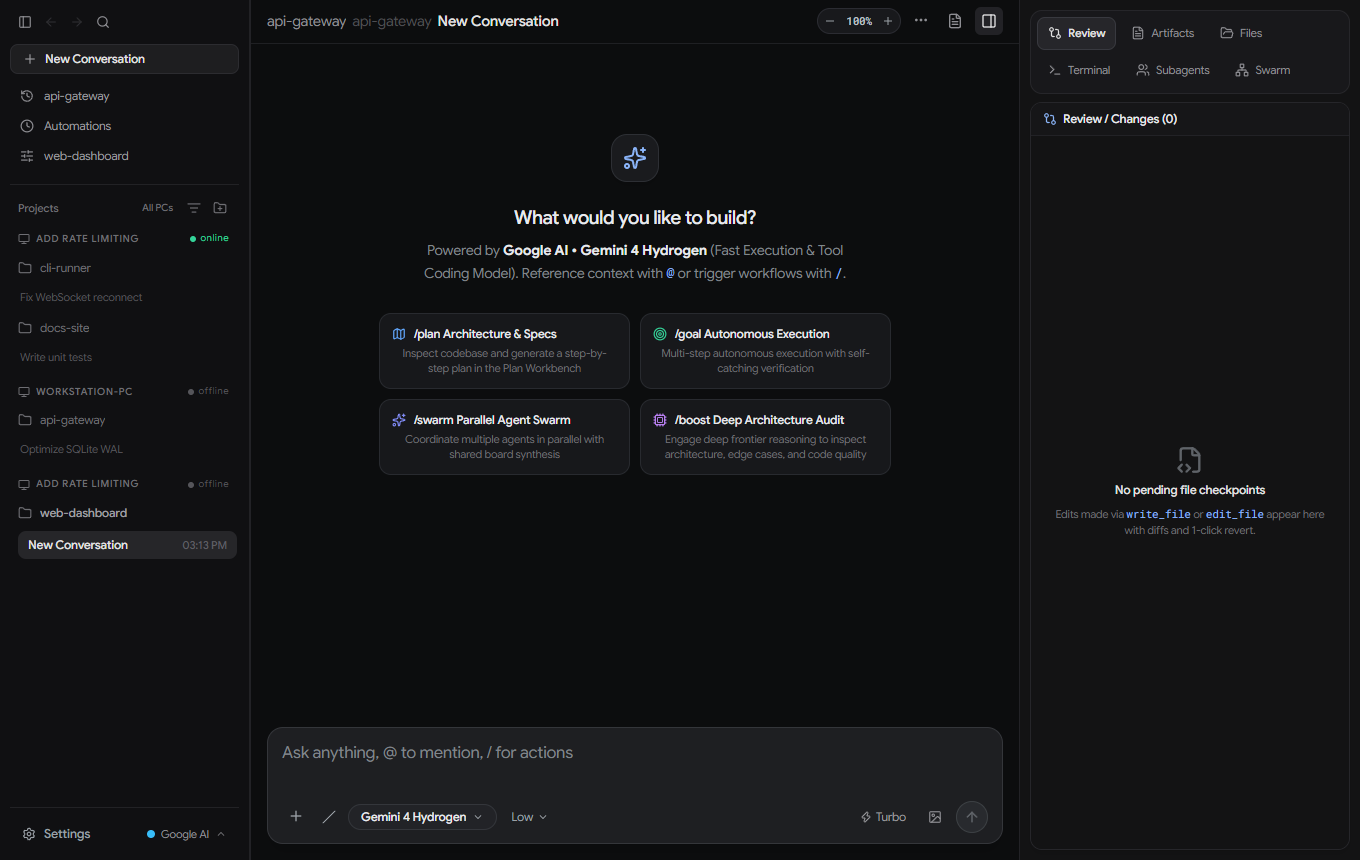
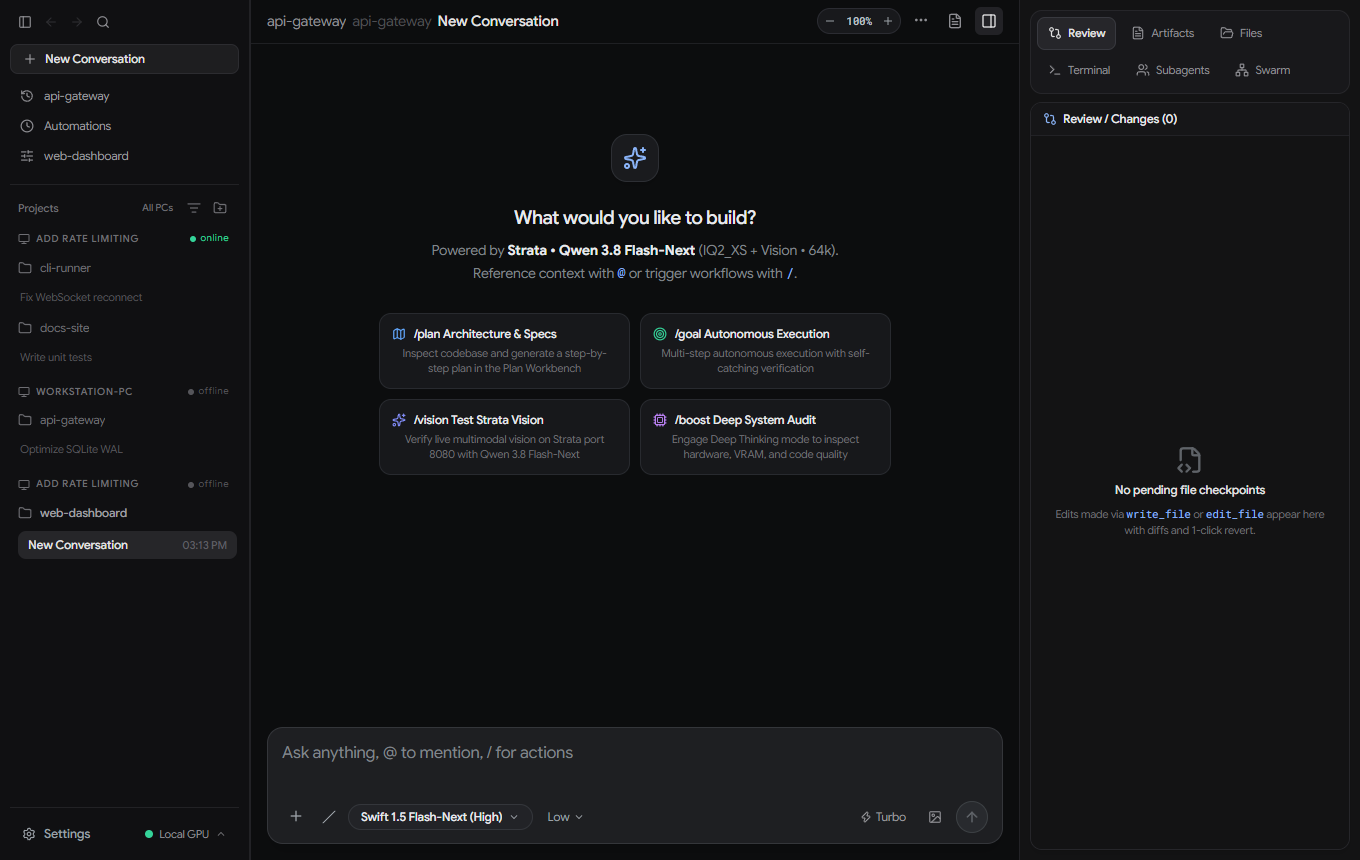
Update README with Strata technical deep-dive, Mermaid architecture, and Strata screenshot

diff --git a/README.md b/README.md
@@ -1,59 +1,119 @@
+<div align="center">
+
 # LocalGravity
 
-An independent, **local-first** agentic coding workspace built to bring an Antigravity-style workflow to your own hardware — with optional cloud APIs when you want them.
+**An independent, local-first agentic coding workspace — built for your own GPU first, with cloud APIs when you want them.**
 
-> **Disclaimer / Trademarks:** LocalGravity is an independent hobby project inspired by modern agentic coding workflows. It is **not** affiliated with, endorsed by, or connected to Google LLC or Google Antigravity. All product names, logos, and trademarks belong to their respective owners.
+[![License: MIT](https://img.shields.io/badge/License-MIT-blue.svg?style=flat-square)](LICENSE)
+[![Latest Release](https://img.shields.io/github/v/release/williamcboehmjr/LocalGravity?style=flat-square&color=brightgreen)](https://github.com/williamcboehmjr/LocalGravity/releases/latest)
+[![Build Status](https://img.shields.io/github/actions/workflow/status/williamcboehmjr/LocalGravity/release.yml?style=flat-square&label=Cross-Platform%20Builds)](https://github.com/williamcboehmjr/LocalGravity/actions)
+[![Platforms](https://img.shields.io/badge/Platforms-Windows%20%7C%20macOS%20%7C%20Linux%20%7C%20Android%20%7C%20ChromeOS-informational?style=flat-square)](#platform-support)
+
+[Why I Built This](#why-i-built-this) · [How It Uses Strata](#how-localgravity-uses-strata-differently) · [Architecture](#architecture) · [Roadmap & `/megaswarm`](#whats-coming-next) · [Quick Start](#quick-start-from-source) · [Contributing](#contributing--feature-requests)
+
+</div>
+
+---
+
+> **Trademark & Non-Affiliation Note:** LocalGravity is an independent hobby project inspired by modern agentic IDE workflows. It is **not** affiliated with, endorsed by, or connected to Google LLC or Google Antigravity. All trademarks belong to their respective owners.
+
+<p align="center">
+  <img src="docs/screenshots/workspace-desktop.png" alt="LocalGravity Workspace running locally on Strata Qwen 3.8 Flash-Next" width="840" />
+</p>
 
 ---
 
 ## Why I Built This
 
-I wanted an Antigravity-style coding experience—clean thinking/working traces, file review diffs, multi-agent swarms, terminal/editor integration, and mobile/desktop companion access—that runs **local-first** on my own workstation GPU, while still letting me flip over to cloud APIs (like Google AI Studio) whenever I want extra speed or reasoning power.
-
-It splits the app into two halves:
-1. **Central Brain (`server/`)** — A TypeScript + Fastify daemon with SQLite persistence that handles model routing, orchestrators, `/swarm` coordination, MCP tools, and session history.
-2. **Edge Client (`client/`)** — A Tauri v2 + React + Monaco + xterm.js app that connects over HTTP/WebSocket and runs file edits and shell commands natively on your machine (Windows, macOS, Linux, Android/ChromeOS, or any browser).
+I wanted an Antigravity-style coding workspace—real-time thinking and working traces, file review checkpoints with inline diffs, multi-agent swarms, an integrated terminal/editor workbench, and mobile/tablet companion access—that runs **local-first on my own workstation GPU**, while still letting me switch over to cloud APIs (like Google AI Studio) whenever I want extra speed or frontier reasoning.
 
 ---
 
-## Screenshots
+## How LocalGravity Uses Strata Differently
 
+Most local LLM clients treat inference like a static chat box where you manually start a backend server and keep weights pinned in VRAM all day. LocalGravity wires **Strata** (`0.1.58`, port `8080`) into an autonomous workstation daemon (`Central Brain`) with a few key differences:
+
+- **Primary Local Model:** `Swift-1.5-Qwen3.8-Flash-Next-GSQ-RCO-IQ2_XS` (Sparse MoE + Vision, 64k context, `DFlash2` speculative decoding config).
+- **Why this model:** It balances fast token generation with native multimodal vision and reliable tool-calling inside consumer VRAM limits, making it practical for multi-step coding loops instead of just single-turn Q&A.
+- **Wake-on-Demand & Guaranteed `0 MB` VRAM Standby:** Instead of hogging VRAM 24/7, `LlamaMoESidecar` spawns Strata only when a prompt arrives, polls `/health` until ready, and automatically tears down the port `8080` process after idle timeout (or when you click **Sleep GPU**) so your GPU drops straight back to **0 MB VRAM**.
+- **Full Agentic Loop Over Strata's Stream:** Rather than plain chat, `Central Brain` wraps Strata's stream in a multi-step tool loop (`run_terminal`, `read_file`, `write_file`, `edit_file`, `apply_diff`, `grep_search`, `find_by_name`, `capture_screen`, MCP tools, `/swarm`, and auto-compaction) with **Reverse-RPC execution** on whatever client device you're working from.
+- **Live Thinking & Interleaved Working Trace:** Reasoning tokens stream into collapsible `Thought for Xs` accordions alongside borderless tool rows, `+X / -Y` diff badges, and interleaved `Working → Prose → Working` updates.
+
+| Capability | Default Strata Client | LocalGravity + Strata |
+| :--- | :--- | :--- |
+| **GPU Lifecycle** | Manual start/stop; stays in VRAM | **Wake-on-Demand** + auto-offload to `0 MB` VRAM |
+| **Execution** | Single-machine chat | **Reverse-RPC** native file edits & terminal across LAN/devices |
+| **Workflow** | Single-turn prompt & reply | Multi-step `/plan`, `/goal`, `/swarm`, `/boost`, `/compact` |
+| **Workbench** | Chat view only | **3-Pane IDE** (Threads, Trace + Chat, Diff Review / Monaco / xterm) |
+| **Cloud Toggle** | Local only | One-click switch to **Google AI Studio** (and more backends coming) |
+
+<details>
+<summary><strong>Screenshot: Redesigned Minimalist Settings Modal</strong></summary>
+<br />
 <p align="center">
-  <img src="docs/screenshots/workspace-desktop.png" alt="LocalGravity Desktop Workspace" width="820" />
+  <img src="docs/screenshots/settings-modal.png" alt="LocalGravity Minimalist Settings" width="760" />
 </p>
-
-<p align="center">
-  <img src="docs/screenshots/settings-modal.png" alt="LocalGravity Minimalist Settings" width="820" />
-</p>
+</details>
 
 ---
 
-## What Works Today
+## Architecture
 
-- **Local GPU & Cloud API Switching**: Run locally with Strata / ExLlamaV3 (with automatic VRAM wake/offload) or switch to Google AI Studio (`Gemini 4 Argon`, `Carbon`, `Hydrogen`, `Flash 3.8`, plus dual orchestrators).
-- **Clean Thinking & Working Trace**: Borderless tool rows with file-type badges, inline `+X / -Y` diff stats, collapsible `Thought for Xs` / `Worked for Xs` summaries, and interleaved `Working → Prose → Working` output.
-- **Slash Commands & Workflows**: `/plan`, `/goal`, `/swarm`, `/boost`, `/compact`, `/vision`, custom skills, and MCP tool integrations.
-- **Cross-Platform Builds**:
-  - **Windows**: `x64` and native `ARM64` `.msi` installers
-  - **macOS**: Universal `.dmg` (Apple Silicon + Intel)
-  - **Linux**: `.AppImage`, `.deb`, and `.rpm`
-  - **Android & ChromeOS**: Signed `.apk` with resizable desktop/Chromebook window support
-  - **Web Companion**: Built-in WebUI served straight from Central Brain (`http://<host>:3390`)
+LocalGravity splits AI orchestration from native machine execution:
+
+```mermaid
+flowchart LR
+    subgraph Edge["Edge Clients (Tauri v2 / WebUI)"]
+        WIN["Windows x64 & ARM64"]
+        MAC["macOS Universal"]
+        LIN["Linux AppImage / DEB / RPM"]
+        MOB["Android & ChromeOS APK"]
+    end
+
+    subgraph Brain["Central Brain (TypeScript + Fastify · :3390)"]
+        ROUTER["Model & Orchestrator Router"]
+        SWARM["/swarm + Subagents + MCP"]
+        DB[("SQLite History & Checkpoints")]
+    end
+
+    subgraph Inference["Inference Engines"]
+        STRATA["Strata Local GPU (:8080)\nSwift-1.5 Qwen 3.8 Flash-Next\nWake-on-Demand / 0 MB Standby"]
+        CLOUD["Google AI Studio API\nArgon / Carbon / Hydrogen"]
+        SOON["Coming Soon:\nOllama · llama.cpp · TabbyAPI · OpenAI"]
+    end
+
+    Edge <-->|"WebSocket Reverse-RPC + REST"| Brain
+    Brain --> STRATA
+    Brain --> CLOUD
+    Brain -.-> SOON
+```
 
 ---
 
-## Coming Soon & Ideas I'm Toying With
+## Platform Support
 
-- **More Local & Custom API Backends**: Adding first-class support for **Ollama**, **llama.cpp** server, **TabbyAPI**, and general **OpenAI-compatible routing** so you can point LocalGravity at whatever local or hosted endpoint you prefer.
-- **`/megaswarm` (Experimental Idea)**: A mode where you can pull in a large swarm of different cloud and local APIs—**Grok, ChatGPT / OpenAI, Google Gemini, Claude**, and others—all working in unison on the same problem. The idea is to throw serious combined brainpower, horsepower, and speed at a hard project right from the start, or when you hit a wall on a nasty bug.
+| Platform | Package Formats | Notes |
+| :--- | :--- | :--- |
+| **Windows (`x64` & native `ARM64`)** | `.msi` + `.sig` | Signed Tauri v2 native installers + in-app auto-update |
+| **macOS (Apple Silicon + Intel)** | Universal `.dmg` + `.app.tar.gz` | Single Universal binary built on `macos-latest` |
+| **Linux (`x64`)** | `.AppImage`, `.deb`, `.rpm` | Covers Ubuntu, Debian, Arch, Fedora, openSUSE, SteamOS |
+| **Android & ChromeOS** | Signed `.apk` | Resizable window + non-touch Chromebook manifest support |
+| **Web Companion** | Built-in WebUI | Served directly from Central Brain (`http://<host>:3390`) |
 
 ---
 
-## Contributing, Feature Requests & PRs
+## What's Coming Next
 
-This is a **side hobby project**, so please keep expectations realistic:
-- **Feature Requests**: Feel free to open an issue with ideas! I'm happy to read them, though I can't promise timelines or that everything will get built.
-- **Forks & Pull Requests**: You're very welcome to fork the repo and open a PR. Before anything gets merged into `main`, PRs go through AI-assisted review and safety checks (along with human review) to make sure changes make sense, stay safe, and don't break existing workflows.
+- **More Local & OpenAI-Compatible Endpoints:** First-class support for **Ollama**, **llama.cpp** server, **TabbyAPI**, and general **OpenAI-compatible API routing** so you can plug in any local or self-hosted model stack.
+- **`/megaswarm` (Experimental Idea):** Something I'm toying with—being able to pull together a big swarm of different cloud and local APIs (**Grok, ChatGPT / OpenAI, Google Gemini, Claude**, and more) all working in unison on the same problem. Great for kicking off a hard project on the right foot, or throwing combined brainpower, horsepower, and speed at a tough bug.
+
+---
+
+## Contributing & Feature Requests
+
+This is a **side hobby project**, so I keep things straightforward:
+- **Feature Requests:** Open an issue anytime! I read everything and love hearing ideas, though I can't promise timelines or that every request will make it in.
+- **Forks & Pull Requests:** You're more than welcome to fork the repo and submit a PR. Incoming PRs go through AI-assisted code review and safety checks (plus human review) to verify changes make sense and stay safe before merging into `main`.
 
 ---
 
@@ -66,7 +126,7 @@ npm install
 npm run build
 npm start
 ```
-Health check: `http://127.0.0.1:3390/api/health`
+Verify health: `http://127.0.0.1:3390/api/health`
 
 ### 2. Start the Client (Web or Desktop)
 ```bash
@@ -77,22 +137,22 @@ npm run dev        # WebUI at http://localhost:5173
 npm run tauri dev  # Native desktop shell
 ```
 
-Prebuilt installers for Windows, macOS, Linux, and Android are posted on the [Releases](https://github.com/williamcboehmjr/LocalGravity/releases) page.
+Prebuilt installers are available on the [Releases](https://github.com/williamcboehmjr/LocalGravity/releases) page.
 
 ---
 
 ## Credits & Open-Source Licenses
 
-LocalGravity stands on the shoulders of a ton of great open-source work:
+LocalGravity builds on a lot of great open-source software:
 
-- **Desktop & Mobile Shell**: [Tauri](https://tauri.app/) (MIT / Apache-2.0) and [Rust](https://www.rust-lang.org/) (`tokio`, `tokio-tungstenite`, `serde`, `futures-util`)
-- **Frontend UI**: [React](https://react.dev/) (MIT), [Vite](https://vite.dev/) (MIT), [Tailwind CSS](https://tailwindcss.com/) (MIT), [Zustand](https://github.com/pmndrs/zustand) (MIT), [Lucide Icons](https://lucide.dev/) (ISC)
-- **Editor, Terminal & Markdown**: [Monaco Editor](https://microsoft.github.io/monaco-editor/) (MIT), [xterm.js](https://xtermjs.org/) (MIT), [react-markdown](https://github.com/remarkjs/react-markdown) & [remark-gfm](https://github.com/remarkjs/remark-gfm) (MIT)
-- **Server & Persistence**: [Fastify](https://fastify.dev/) (MIT), [better-sqlite3](https://github.com/WiseLibs/better-sqlite3) (MIT), [ws](https://github.com/websockets/ws) (MIT), [pdf-parse](https://www.npmjs.com/package/pdf-parse) (MIT), [yaml](https://github.com/eemeli/yaml) (ISC)
-- **Local Inference & Tools**: [llama.cpp](https://github.com/ggml-org/llama.cpp) / [ExLlamaV3](https://github.com/turboderp-org/exllamav3) / Strata local inference ecosystem, [Playwright](https://playwright.dev/) (Apache-2.0), and the Model Context Protocol (MCP)
+- **Desktop & Mobile Runtime:** [Tauri](https://tauri.app/) (MIT / Apache-2.0), [Rust](https://www.rust-lang.org/) (`tokio`, `tokio-tungstenite`, `serde`, `futures-util`)
+- **Frontend UI:** [React](https://react.dev/) (MIT), [Vite](https://vite.dev/) (MIT), [Tailwind CSS](https://tailwindcss.com/) (MIT), [Zustand](https://github.com/pmndrs/zustand) (MIT), [Lucide Icons](https://lucide.dev/) (ISC)
+- **Editor, Terminal & Markdown:** [Monaco Editor](https://microsoft.github.io/monaco-editor/) (MIT), [xterm.js](https://xtermjs.org/) (MIT), [react-markdown](https://github.com/remarkjs/react-markdown) & [remark-gfm](https://github.com/remarkjs/remark-gfm) (MIT)
+- **Backend & Storage:** [Fastify](https://fastify.dev/) (MIT), [better-sqlite3](https://github.com/WiseLibs/better-sqlite3) (MIT), [ws](https://github.com/websockets/ws) (MIT), [pdf-parse](https://www.npmjs.com/package/pdf-parse) (MIT), [yaml](https://github.com/eemeli/yaml) (ISC)
+- **Local Inference & Tools:** Strata local inference runtime, [llama.cpp](https://github.com/ggml-org/llama.cpp) (MIT), [ExLlamaV3](https://github.com/turboderp-org/exllamav3), [Playwright](https://playwright.dev/) (Apache-2.0), and the Model Context Protocol (MCP)
 
 ---
 
 ## License
 
-Licensed under the [MIT License](LICENSE).
+MIT License — see [LICENSE](LICENSE) for details.
